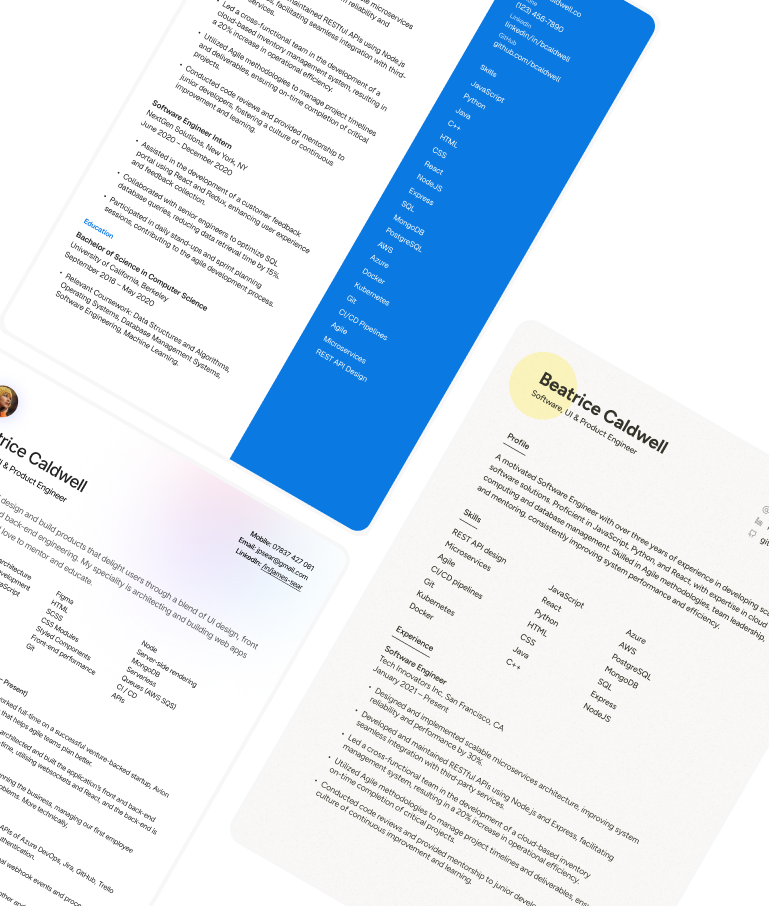
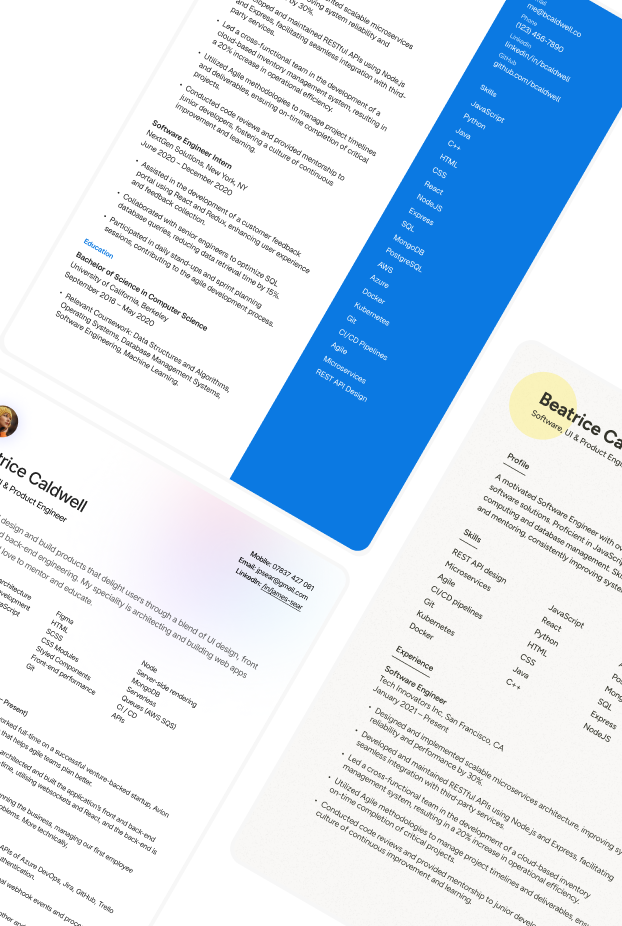
feat (ui,upadate) feedback fixes in signin-page,created forgot-password page-and signup-page

diff --git a/src/components/Pages/signIn.jsx b/src/components/Pages/signIn.jsx
@@ -1,59 +1,76 @@
 import React from "react";
-import AuthHeader from "../auth/AuthHeader";
+import AuthLayout from "@/components/auth/AuthLayout";
+import AuthHeader from "@/components/auth/AuthHeader";
 import { Input } from "@/components/ui/input";
 import { Label } from "@/components/ui/label";
 import { Button } from "@/components/ui/button";
 import { Separator } from "@/components/ui/separator";
-import AuthLayout from "../auth/AuthLayout";
-import facebookLogo from "../../assets/images/facebook-logo.svg";
+import facebookLogo from "@/assets/images/facebook-logo.svg";
 
 export default function SignIn() {
+  const handleSubmit = (e) => {
+    e.preventDefault();
+  };
   return (
     <>
       <AuthLayout>
-        <div className=" ">
-          <div className="w-full max-w-md">
-            <AuthHeader
-              title="Sign in to your account"
-              subtitle={
-                <span>
-                  Not a member?{" "}
-                  <a
-                    href="/signup"
-                    className="text-blue-600 hover:underline cursor-pointer"
-                  >
-                    Sign up
-                  </a>
-                </span>
-              }
+        <div className="w-full max-w-md">
+          <AuthHeader
+            title="Sign in to your account"
+            subtitle={
+              <span>
+                Not a member?{" "}
+                <a
+                  href="/signup"
+                  className="text-blue-600 hover:underline cursor-pointer"
+                >
+                  Sign up
+                </a>
+              </span>
+            }
+          />
+
+          <Button variant="outline" size="lg">
+            <img src={facebookLogo} alt="facebook logo" />
+            Sign in with Facebook
+          </Button>
+
+          <Separator className="my-6.5">
+            <span>Or use email</span>
+          </Separator>
+
+          <form onSubmit={handleSubmit}>
+            <Label htmlFor="email" className="mb-2">
+              Email
+            </Label>
+            <Input
+              id="email"
+              type="email"
+              placeholder="Email address"
+              className="mb-4"
             />
 
-            <Button variant="outline" size="lg">
-              <img src={facebookLogo} alt="facebook logo" />
-              Sign in with LinkedIn
-            </Button>
-
-            <Separator className="my-6.5">
-              <span>Or use email</span>
-            </Separator>
-
-            <Label className="mb-2">Email</Label>
-            <Input type="email" placeholder="Email address" className="mb-4"/>
-
-            <Label className="mb-2">Password</Label>
-            <Input type="password" placeholder="Password" className="mb-1.25"/>
+            <Label htmlFor="password" className="mb-2">
+              Password
+            </Label>
+            <Input
+              id="password"
+              type="password"
+              placeholder="Password"
+              className="mb-1.25"
+            />
 
             <a
               href="/forgot-password"
-              className="text-sm font-medium leading-5 text-right block text-muted-foreground hover:text-primary cursor-pointer mb-8.5"
+              className="text-sm font-medium leading-5 text-right block text-muted-foreground hover:text-primary hover:underline cursor-pointer mb-8.5"
             >
               Forgot password?
             </a>
 
-            <Button className="w-full" size="lg">
+            <Button type="submit" className="w-full" size="lg">
               Sign in
             </Button>
-          </div>
+          </form>
         </div>
       </AuthLayout>
     </>

diff --git a/src/components/Pages/signUp.jsx b/src/components/Pages/signUp.jsx
@@ -1,0 +1,55 @@
+import AuthLayout from "@/components/auth/AuthLayout";
+import AuthHeader from "@/components/auth/AuthHeader";
+import { Input } from "@/components/ui/input";
+import { Label } from "@/components/ui/label";
+import { Button } from "@/components/ui/button";
+
+export default function SignUp() {
+  const handleSubmit = (e) => {
+    e.preventDefault();
+  };
+  return (
+    <>
+      <AuthLayout>
+        <div className="w-full max-w-md">
+          <AuthHeader
+            title="Let’s get started"
+            subtitle="Fill in your personal details"
+          />
+
+          <form onSubmit={handleSubmit}>
+            <div className="flex gap-2.5 mb-3.5">
+              <div className="flex-1">
+                <Label htmlFor="firstName" className="mb-1 block text-sm">
+                  First name
+                </Label>
+                <Input id="firstName" type="text" placeholder="Ben" />
+              </div>
+
+              <div className="flex-1">
+                <Label htmlFor="lastName" className="mb-1 block text-sm">
+                  Last name
+                </Label>
+                <Input id="lastName" type="text" placeholder="Caldwell" />
+              </div>
+            </div>
+
+            <Label htmlFor="email" className="mb-2">
+              Email
+            </Label>
+            <Input
+              id="email"
+              type="email"
+              placeholder="Email address"
+              className="mb-8.5"
+            />
+
+            <Button type="submit" className="w-full" size="lg">
+              Sign up
+            </Button>
+          </form>
+        </div>
+      </AuthLayout>
+    </>
+  );
+}

diff --git a/src/components/Pages/forgotPassword.jsx b/src/components/Pages/forgotPassword.jsx
@@ -1,0 +1,35 @@
+import AuthLayout from "@/components/auth/AuthLayout";
+import AuthHeader from "@/components/auth/AuthHeader";
+import { Button } from "@/components/ui/button";
+import facebookLogo from "@/assets/images/facebook-logo.svg";
+import { Separator } from "@/components/ui/separator";
+import mailLogo from "@/assets/images/mail.svg";
+
+export default function ForgotPassword() {
+  return (
+    <>
+      <AuthLayout>
+        <div className="w-full max-w-md">
+          <AuthHeader
+            title="Create an account"
+            subtitle="Use LinkedIn for fastest sign up"
+          />
+
+          <Button variant="outline" size="lg">
+            <img src={facebookLogo} alt="facebook logo" />
+            Sign in with Facebook
+          </Button>
+
+          <Separator className="my-6.5">
+            <span>Or use email</span>
+          </Separator>
+        </div>
+
+        <Button type="submit" className="w-full" size="lg">
+          <img src={mailLogo} alt="mail logo" />
+          Continue with email
+        </Button>
+      </AuthLayout>
+    </>
+  );
+}

diff --git a/src/components/auth/AuthLayout.jsx b/src/components/auth/AuthLayout.jsx
@@ -1,12 +1,20 @@
-import resumePage from '../../assets/images/resume-page.png'
+import resumePage from "../../assets/images/resume-page.png";
 
 export default function AuthLayout({ children }) {
   return (
-    <div className="grid grid-cols-2 h-screen overflow-hidden ">
-      <div className="flex items-center justify-center">{children}</div>
+    <div className="flex h-screen w-full overflow-hidden">
+      <div className="w-1/2 flex items-center justify-center p-4">
+        <div className="inline-block">{children}</div>
+      </div>
 
-      <div className="">
-        <img src={resumePage} className="w-full  h-full object-cover" />
+      <div className="w-1/2 h-full p-7 pl-0">
+        <div className="w-full h-full overflow-hidden rounded-3xl border border-border">
+          <img
+            src={resumePage}
+            alt="Resume Preview"
+            className="w-full h-full object-cover"
+          />
+        </div>
       </div>
     </div>
   );

diff --git a/src/App.jsx b/src/App.jsx
@@ -1,12 +1,20 @@
-import SignIn from "./components/Pages/signIn";
+  import { BrowserRouter, Routes, Route } from "react-router-dom";
+  import SignIn from "./components/Pages/signIn";
+  import SignUp from "./components/Pages/signUp";
+  import ForgotPassword from "./components/Pages/forgotPassword";
+  import Home from "./components/Pages/home";
 
-function App() {
-  return (
-    <>
-      <SignIn />
-      
-    </>
-  );
-}
+  function App() {
+    return (
+      <BrowserRouter>
+        <Routes>
+          <Route path="/" element={<Home />} />
+          <Route path="/signin" element={<SignIn />} />
+          <Route path="/signup" element={<SignUp />} />
+          <Route path="/forgot-password" element={<ForgotPassword />} />
+        </Routes>
+      </BrowserRouter>
+    );
+  }
 
-export default App;
+  export default App;

diff --git a/src/index.css b/src/index.css
@@ -77,13 +77,15 @@ body {
   --radius-2xl: calc(var(--radius) * 1.8);
   --radius-3xl: calc(var(--radius) * 2.2);
   --radius-4xl: calc(var(--radius) * 2.6);
-
+  --color-primary-border:var(--primary-border);
+  --color-primary-box:var(--primary-box);
 
 
 }
 
 :root {
-
+  --primary-border: #1D4ED8;
+  --primary-box: #2563EB;
   --background: oklch(1 0 0);
   --foreground: oklch(0.145 0 0);
   --card: oklch(1 0 0);
@@ -99,8 +101,8 @@ body {
   --accent: oklch(0.97 0 0);
   --accent-foreground: oklch(0.205 0 0);
   --destructive: oklch(0.577 0.245 27.325);
-  --border: oklch(0.922 0 0);
-  --input: oklch(0.922 0 0);
+  --border: #E2E8F0;
+  --input: #CBD5E1;
   --ring: oklch(0.708 0 0);
   --chart-1: oklch(0.87 0 0);
   --chart-2: oklch(0.556 0 0);

diff --git a/src/components/ui/button.jsx b/src/components/ui/button.jsx
@@ -8,7 +8,8 @@ const buttonVariants = cva(
   {
     variants: {
       variant: {
-        default: "bg-blue-600 text-white font-medium text-sm leading-5 hover:bg-blue-500",
+        default:
+          "bg-primary-box border border-primary-border text-white font-medium text-sm leading-5 hover:bg-blue-500",
         outline:
           "text-sidebar-foreground leading-5 font-medium text-sm border-border bg-background shadow-xs hover:bg-muted hover:text-foreground aria-expanded:bg-muted aria-expanded:text-foreground dark:border-input dark:bg-input/30 dark:hover:bg-input/50",
         secondary:

diff --git a/src/components/Pages/home.jsx b/src/components/Pages/home.jsx
@@ -1,0 +1,14 @@
+import { useNavigate } from "react-router-dom";
+import swiftLogo from "@/assets/images/swift-logo.svg";
+import { Button } from "@/components/ui/button";
+
+export default function Home() {
+  const navigate = useNavigate();
+
+  return (
+    <div className="flex flex-col items-center justify-center h-screen gap-6">
+      <img src={swiftLogo} alt="Swift Resume" className="w-40" />
+      <Button onClick={() => navigate("/signin")}>Login</Button>
+    </div>
+  );
+}
